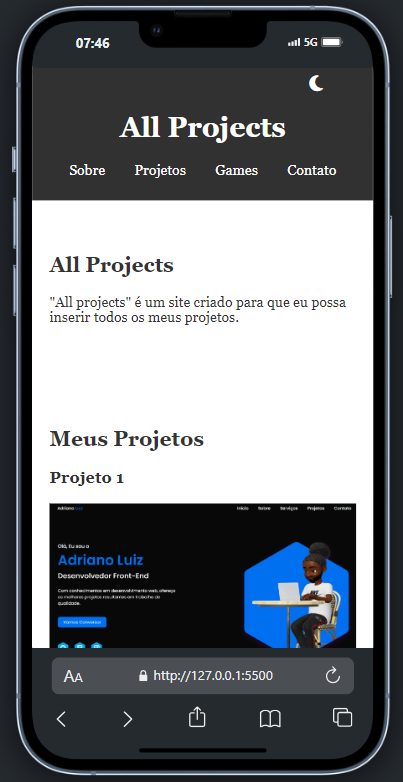
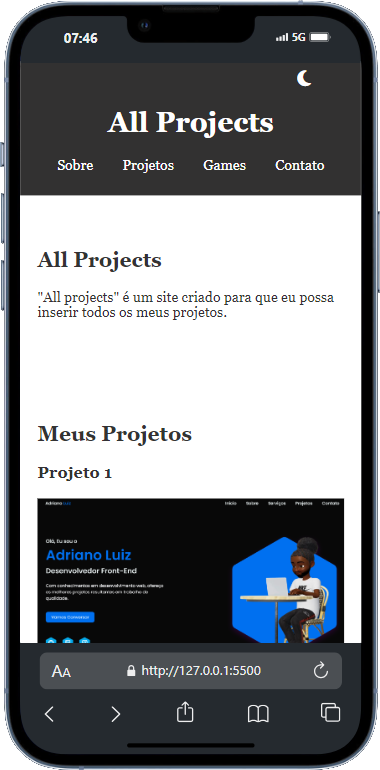
Atualização de projetos

diff --git a/index.html b/index.html
@@ -232,7 +232,20 @@
             <h1 class="section__title">
                 Projetos recentes
             </h1>
+
             <div class="projects__container container grid">
+
+                <article class="projects__card">
+                    <img src="./img/twitter.png" alt="Imagem do projeto" class="projects__img">
+                    <div class="projects__modal">
+                        <span class="projects__subtitle">Web</span>
+                        <h2 class="projects__title">Replica do Twitter</h2>
+                        <a href="https://twiterx.netlify.app/" class="projects__button" target="_blank">
+                            Ver <i class="ri-external-link-line"></i>
+                        </a>
+                    </div>
+                </article>
+
                 <article class="projects__card">
                     <img src="./img/rect.png" alt="Imagem do projeto" class="projects__img">
                     <div class="projects__modal">
@@ -255,17 +268,6 @@
                     </div>
                 </article>
 
-                <article class="projects__card">
-                    <img src="./img/jogo IA.png" alt="Imagem do projeto" class="projects__img">
-                    <div class="projects__modal">
-                        <span class="projects__subtitle">Web</span>
-                        <h2 class="projects__title">Jogo Feito com IA</h2>
-                        <a href="https://jogoia.netlify.app/" class="projects__button" target="_blank">
-                            Ver <i class="ri-external-link-line"></i>
-                        </a>
-                    </div>
-                </article>
-
                   <article class="projects__card">
                     <img src="./img/instagran.png" alt="Imagem do projeto" class="projects__img">
                     <div class="projects__modal">
@@ -276,13 +278,13 @@
                         </a>
                     </div>
                 </article>
-                    
+
                 <article class="projects__card">
-                    <img src="./img/portifolio.png" alt="Imagem do projeto" class="projects__img">
+                    <img src="./img/jogo IA.png" alt="Imagem do projeto" class="projects__img">
                     <div class="projects__modal">
                         <span class="projects__subtitle">Web</span>
-                        <h2 class="projects__title">Portifólio secundário</h2>
-                        <a href="https://portifolio24.netlify.app/" class="projects__button" target="_blank">
+                        <h2 class="projects__title">Jogo Feito com IA</h2>
+                        <a href="https://jogoia.netlify.app/" class="projects__button" target="_blank">
                             Ver <i class="ri-external-link-line"></i>
                         </a>
                     </div>
